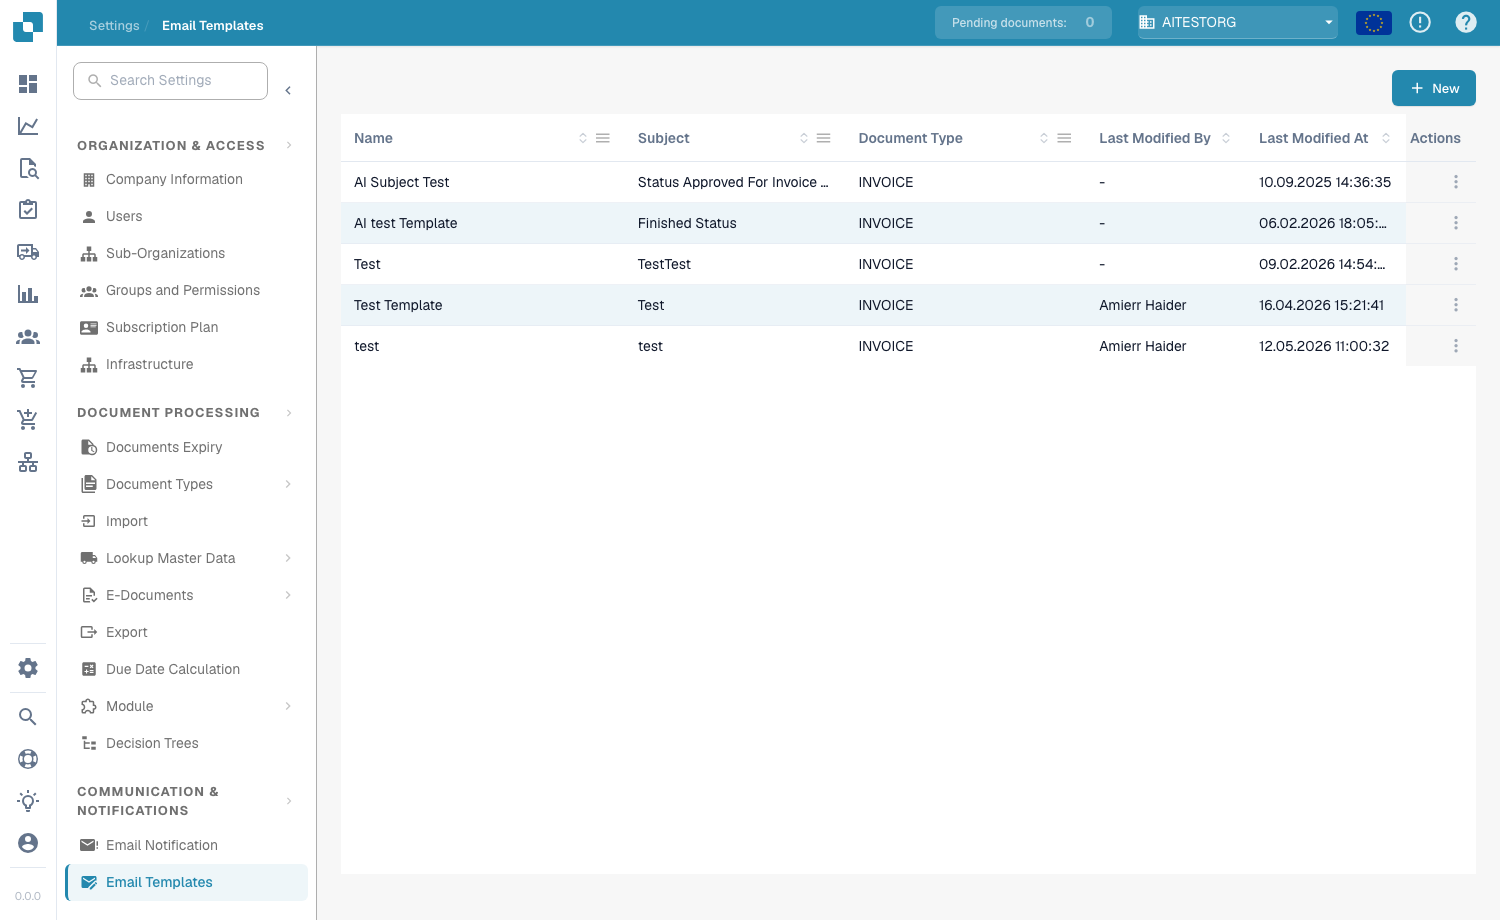
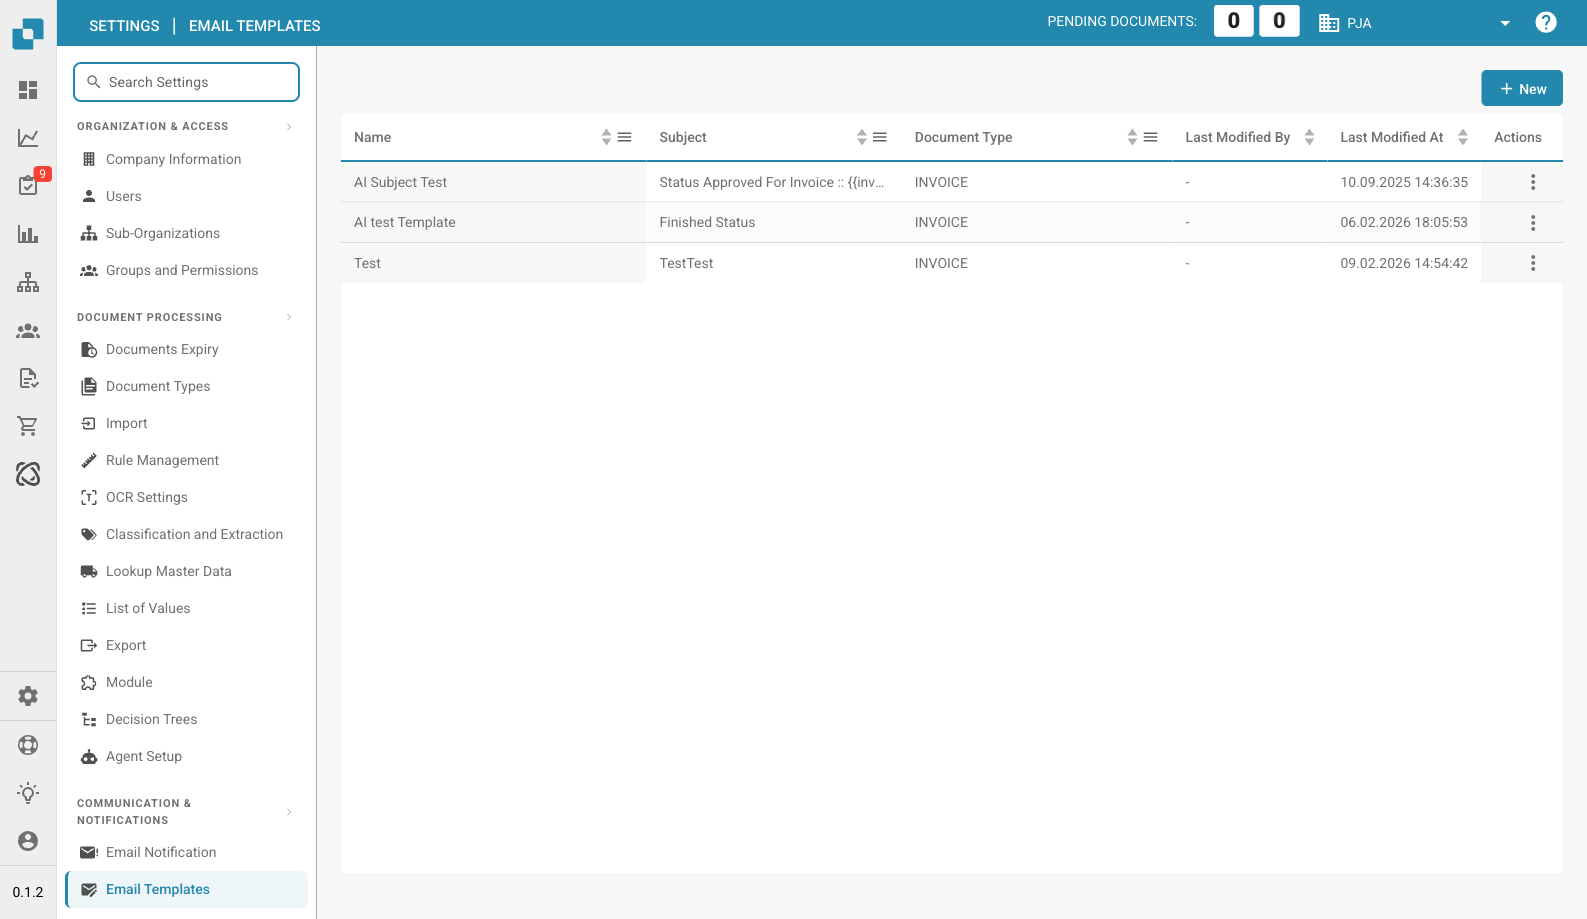
Revert "docs(email-templates): refresh list screenshot + document the editor (attachment toggle, placeholder insert, Send Test)"
This reverts commit f14bde101691452dfcf232229dfa57e008ce8b84.

diff --git a/readme/administration-and-setup/settings/communication-and-notifications/email-templates/README.md b/readme/administration-and-setup/settings/communication-and-notifications/email-templates/README.md
@@ -1,40 +1,33 @@
 # Email Templates
 
-<figure><img src="../../../../.gitbook/assets/email_templates.png" alt="Email Templates"><figcaption><p>Email Templates list</p></figcaption></figure>
+<figure><img src="../../../../.gitbook/assets/email_templates.png" alt="Email Templates"><figcaption><p>Email Templates Page</p></figcaption></figure>
 
-Email Templates let you design reusable email layouts used by Email Notifications. Each template defines a subject line and body content, including dynamic placeholders that are filled in with document data when the email is sent. Open the page from **Settings → Communication & Notifications → Email Templates**.
+Email Templates let you design reusable email layouts used by Email Notifications. Templates define the subject line and body content, including dynamic placeholders for document data.
 
 ## Template List
 
 | Column | Description |
 |--------|-------------|
 | **Name** | A descriptive name for the template. |
-| **Subject** | The email subject line. Supports placeholders such as `{{invoice_id}}`. |
-| **Document Type** | The document type this template applies to (e.g. `INVOICE`). |
-| **Last Modified By** | The user who last edited the template. |
+| **Subject** | The email subject line. Supports placeholders like `{{invoice_id}}`. |
+| **Document Type** | Which document type this template applies to (e.g., INVOICE). |
+| **Last Modified By** | The user who last edited this template. |
 | **Last Modified At** | Timestamp of the last change. |
-| **Actions** | Three-dot menu to edit or delete the template. |
+| **Actions** | Three-dot menu to edit or delete. |
 
 ## Creating a Template
 
 1. Click **+ New** in the top-right corner.
-2. Enter a **Name** and choose the **Document Type** the template applies to.
-3. (Optional) Enable **Include Document As Attachment** to attach the source document to the email.
-4. Enter the **Subject**. Click the **+** button next to the field to insert a dynamic placeholder.
-5. Design the email body in the rich-text editor — format text (bold, italic, lists, alignment), insert images with **Upload**, and use the **+** button to insert placeholders.
-6. Click **Send Test** to email yourself a preview, then click **Save**.
-
-<figure><img src="../../../../.gitbook/assets/email_templates_editor.png" alt="Email Template editor"><figcaption><p>The template editor — name, document type, subject and rich-text body</p></figcaption></figure>
+2. Enter a **Name** and **Subject** (use `{{field_name}}` for dynamic values).
+3. Select the **Document Type**.
+4. Design the email body using the built-in editor.
+5. Click **Save**.
 
 ## Dynamic Placeholders
 
-Placeholders insert document field values into the subject or body. Add them with the **+** button, or type them directly using double curly braces:
+Use double curly braces to insert document field values into your template:
 
-* `{{invoice_id}}` — the invoice number
-* `{{supplier_name}}` — the supplier name
-* `{{total_amount}}` — the total amount
-* `{{status}}` — the current document status
-
-## Sending a Test
-
-Click **Send Test** in the editor to send a preview of the template to your own email address. This lets you check the layout and verify that the placeholders resolve correctly before saving the template.
+* `{{invoice_id}}` — The invoice number
+* `{{supplier_name}}` — The supplier name
+* `{{total_amount}}` — The total amount
+* `{{status}}` — The current document status
